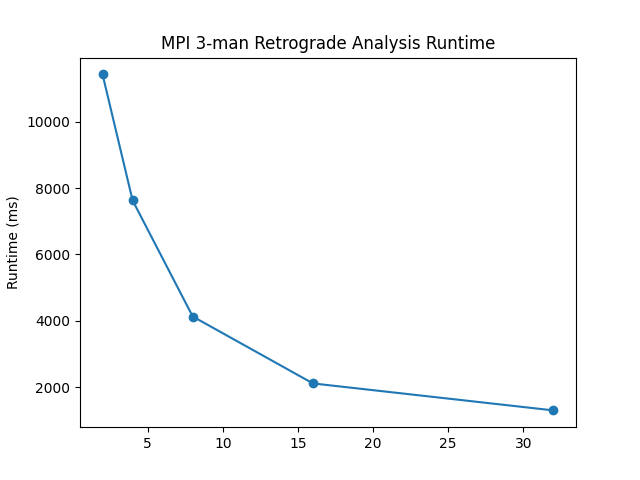
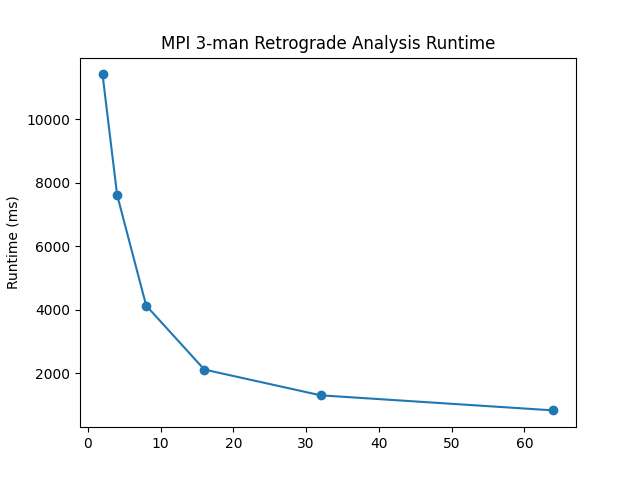
MPI Communication bugfix (#16)
* Store predecessors in linked list while MPI_Isend proceeds to maintain address

* Updated results with 64 procs

* Updated graphs

* Code cleanup

diff --git a/src/retrograde_analysis/multi_node_impl.hpp b/src/retrograde_analysis/multi_node_impl.hpp
@@ -1,6 +1,7 @@
 #ifndef MULTI_NODE_IMPL_HPP_
 
 #include <cmath>
+#include <list>
 #include <cassert>
 #include <iostream>
 #include <cstddef>
@@ -110,9 +111,9 @@ void initialize_comm_structs(void)
   }
 }
 
-template <typename WinFrontier, typename LoseFrontier, typename Partitioner, typename EndGameSet,
+template <typename WinFrontier, typename LoseFrontier, typename Partitioner, typename PredStore, typename EndGameSet,
   typename PredecessorGen, typename BoardMap>
-inline auto do_majorIteration(int id, short v, int numProcs, const Partitioner& p, 
+inline auto do_majorIteration(int id, short v, int numProcs, const Partitioner& p, PredStore& predStore, 
     BoardMap&& boardMap, LoseFrontier& loseFrontier, WinFrontier&& winFrontier,
     const EndGameSet& losses, EndGameSet&& wins, PredecessorGen predFn)
 {
@@ -132,18 +133,18 @@ inline auto do_majorIteration(int id, short v, int numProcs, const Partitioner& 
         auto targetId = p(pred);
         if (targetId == id)
         {
-          auto [_, b_insert] = winFrontier.insert({true, v, std::move(pred)}); // tell the predecessor that the current state wins in v moves.
+          auto [_, b_insert] = winFrontier.insert({true, v, ::std::move(pred)}); // tell the predecessor that the current state wins in v moves.
           if (b_insert)
             b_localAssignedWork = true;
         }
         else
         {
+          predStore.emplace_back(true, v, ::std::move(pred));
           b_localAssignedWork = true;
           // perform MPI send from current to targetId
           MPI_Request* r = new MPI_Request(); // receiver responsible for knowing 
           sendRequests.push_back(r);
-          frontierState.G = v;
-          MPI_Isend(&frontierState, 1, MPI_NodeCommData, targetId, 0,
+          MPI_Isend(&(predStore.back()), 1, MPI_NodeCommData, targetId, 0,
             MPI_COMM_WORLD, r);
         }
       }
@@ -176,9 +177,9 @@ inline auto do_majorIteration(int id, short v, int numProcs, const Partitioner& 
     ::std::move(boardMap), ::std::move(winFrontier), ::std::move(wins));
 }
 
-template <typename WinFrontier, typename LoseFrontier, typename Partitioner, typename EndGameSet, 
+template <typename WinFrontier, typename LoseFrontier, typename Partitioner, typename PredStore, typename EndGameSet, 
   typename PredecessorGen, typename SuccessorGen, typename BoardMap>
-inline auto do_minorIteration(int id, int v, int numProcs, const Partitioner& p, 
+inline auto do_minorIteration(int id, int v, int numProcs, const Partitioner& p, PredStore& predStore,
     BoardMap&& boardMap, LoseFrontier&& loseFrontier, WinFrontier& winFrontier,
     EndGameSet&& losses, const EndGameSet& wins, PredecessorGen predFn, SuccessorGen succFn)
 {
@@ -186,14 +187,13 @@ inline auto do_minorIteration(int id, int v, int numProcs, const Partitioner& p,
   // MPI processes)
   bool b_localAssignedWork = false;
   ::std::vector<MPI_Request*> sendRequests;
-  int g = v - 1;
 
   for (auto& frontierState : winFrontier)
   {
     if (losses.find(frontierState.b) == losses.end() 
         && wins.find(frontierState.b) == wins.end())
     {      
-      // account for the fact that succs has not been calculated
+      // account for the fact that successors may have not been calculated
       if (boardMap[frontierState.b].C < 0)
       {
         auto succs = succFn(frontierState.b);
@@ -217,11 +217,11 @@ inline auto do_minorIteration(int id, int v, int numProcs, const Partitioner& p,
           }
           else
           {
+            predStore.emplace_back(false, boardMap[frontierState.b].T, ::std::move(pred));
             b_localAssignedWork = true;
             MPI_Request* r = new MPI_Request();
             sendRequests.push_back(r);
-            frontierState.G = boardMap[frontierState.b].T;
-            MPI_Isend(&frontierState, 1, MPI_NodeCommData, targetId, 0, 
+            MPI_Isend(&(predStore.back()), 1, MPI_NodeCommData, targetId, 0, 
               MPI_COMM_WORLD, r);
           }
         }
@@ -256,7 +256,7 @@ inline auto do_minorIteration(int id, int v, int numProcs, const Partitioner& p,
     ::std::move(loseFrontier), ::std::move(losses));
 }
 
-// TODO: Consider more efficient communication scheme with MPI groups
+// TODO: Consider more efficient communication scheme with One-sided Communication 
 template<bool fromWinIteration, typename BoardMap, typename BoardSet, typename Frontier> 
 auto do_syncAndFree(int numNodes, short v,
     ::std::vector<MPI_Request*> sendRequests,
@@ -264,7 +264,7 @@ auto do_syncAndFree(int numNodes, short v,
     const BoardSet& losses,
     BoardMap&& boardMap, Frontier&& frontier)
 {
-  // initially, we only know that the current node is complete with computation
+  // initially, we only know that the current node is done with computation
   int finishedNodes = 1;
   bool b_otherAssignedWork = false;
 
@@ -282,7 +282,6 @@ auto do_syncAndFree(int numNodes, short v,
         && losses.find(recvBuf.b) == losses.end() && tag == 0)
     {
       frontier.insert(recvBuf);
-      //b_otherAssignedWork = true;
 
       if constexpr (fromWinIteration)
       {
@@ -303,7 +302,6 @@ auto do_syncAndFree(int numNodes, short v,
       }
       else // from lose iteration
       {
-        // TODO: I think this if else is unnecessary. the if is always true
         if (boardMap.find(recvBuf.b) == boardMap.end())
           boardMap[recvBuf.b] = { static_cast<short>(v + 1), {}, {} }; // last two fields are only relevant to potentially lost states.  
         else
@@ -317,11 +315,8 @@ auto do_syncAndFree(int numNodes, short v,
     }
     else if (tag == 2)
     {
-      int rank;
-      MPI_Comm_rank(MPI_COMM_WORLD, &rank);
       ++finishedNodes;
     }
-
   } while(finishedNodes != numNodes);
   
   // 2. Wait for requests and free memory. All messages should be
@@ -332,6 +327,8 @@ auto do_syncAndFree(int numNodes, short v,
     MPI_Wait(sendRequests[i], &status);
     delete sendRequests[i];
   }
+  // All nodes must synchronize here prior to ensure all messages have 
+  // been consumed
   MPI_Barrier(MPI_COMM_WORLD);
   return ::std::make_tuple(::std::move(boardMap), ::std::move(frontier), b_otherAssignedWork);
 }
@@ -357,6 +354,7 @@ auto retrogradeAnalysisClusterImpl(const KStateSpacePartition<FlattenedSz, Board
     BoardStateHasher<FlattenedSz, NonPlacementDataType>>;
   using frontier_t = ::std::unordered_set<NodeCommData<FlattenedSz, NonPlacementDataType>, 
     NodeCommHasher<FlattenedSz, NonPlacementDataType>>;
+  using pred_list_t = ::std::list<NodeCommData<FlattenedSz, NonPlacementDataType>>;
   
   // Estimate data during search - more expensive than omp implementation 
   using board_map_t = 
@@ -372,6 +370,7 @@ auto retrogradeAnalysisClusterImpl(const KStateSpacePartition<FlattenedSz, Board
   
   board_map_t estimateData;
   ::std::vector<MPI_Request*> sendRequests;
+  pred_list_t predList;
   
   // 1. initialization 
   for (const auto& l : losses)
@@ -381,13 +380,14 @@ auto retrogradeAnalysisClusterImpl(const KStateSpacePartition<FlattenedSz, Board
   for (const auto& f : winFrontier)
   {
     auto preds = generatePredecessors(f.b);
-    for (const auto& pred : preds)
+    for (auto&& pred : preds)
     {
       auto targetId = partitioner(pred);
       if (targetId != id) // different node processes this
       {
+        predList.emplace_back(true, 0, ::std::move(pred));
         MPI_Request* r = new MPI_Request();
-        MPI_Isend(&f, 1, MPI_NodeCommData, targetId, 0, 
+        MPI_Isend(&(predList.back()), 1, MPI_NodeCommData, targetId, 0, 
               MPI_COMM_WORLD, r);
       }
       else
@@ -417,12 +417,13 @@ auto retrogradeAnalysisClusterImpl(const KStateSpacePartition<FlattenedSz, Board
 
   winFrontier.clear();
   sendRequests.clear();
+  predList.clear();
 
   for (short v = 1; v > 0; ++v)
   {
     // 1. Invoke major iteration
     ::std::tie(b_localAssignedWork, sendRequests, estimateData, winFrontier, wins) = do_majorIteration(id, v, numProcs,
-        partitioner, ::std::move(estimateData), loseFrontier, ::std::move(winFrontier), losses,
+        partitioner, predList, ::std::move(estimateData), loseFrontier, ::std::move(winFrontier), losses,
         ::std::move(wins), generatePredecessors);
     
     ::std::tie(estimateData, winFrontier, b_otherAssignedWork) = do_syncAndFree<true>(numProcs, v, sendRequests,
@@ -430,13 +431,14 @@ auto retrogradeAnalysisClusterImpl(const KStateSpacePartition<FlattenedSz, Board
     
     sendRequests.clear();
     loseFrontier.clear();
+    predList.clear();
 
     if (!b_otherAssignedWork && !b_localAssignedWork)
       break;
 
     // 2. Invoke minor iteration
     ::std::tie(b_localAssignedWork, sendRequests, estimateData, loseFrontier, losses) = do_minorIteration(id, v, numProcs,
-      partitioner, ::std::move(estimateData), ::std::move(loseFrontier), winFrontier,
+      partitioner, predList, ::std::move(estimateData), ::std::move(loseFrontier), winFrontier,
       ::std::move(losses), wins, generatePredecessors, generateSuccessors);
     
     ::std::tie(estimateData, loseFrontier, b_otherAssignedWork) = do_syncAndFree<false>(numProcs, v, sendRequests, 
@@ -444,6 +446,7 @@ auto retrogradeAnalysisClusterImpl(const KStateSpacePartition<FlattenedSz, Board
 
     sendRequests.clear();
     winFrontier.clear();
+    predList.clear();
 
     if (!b_otherAssignedWork && !b_localAssignedWork)
       break; 
